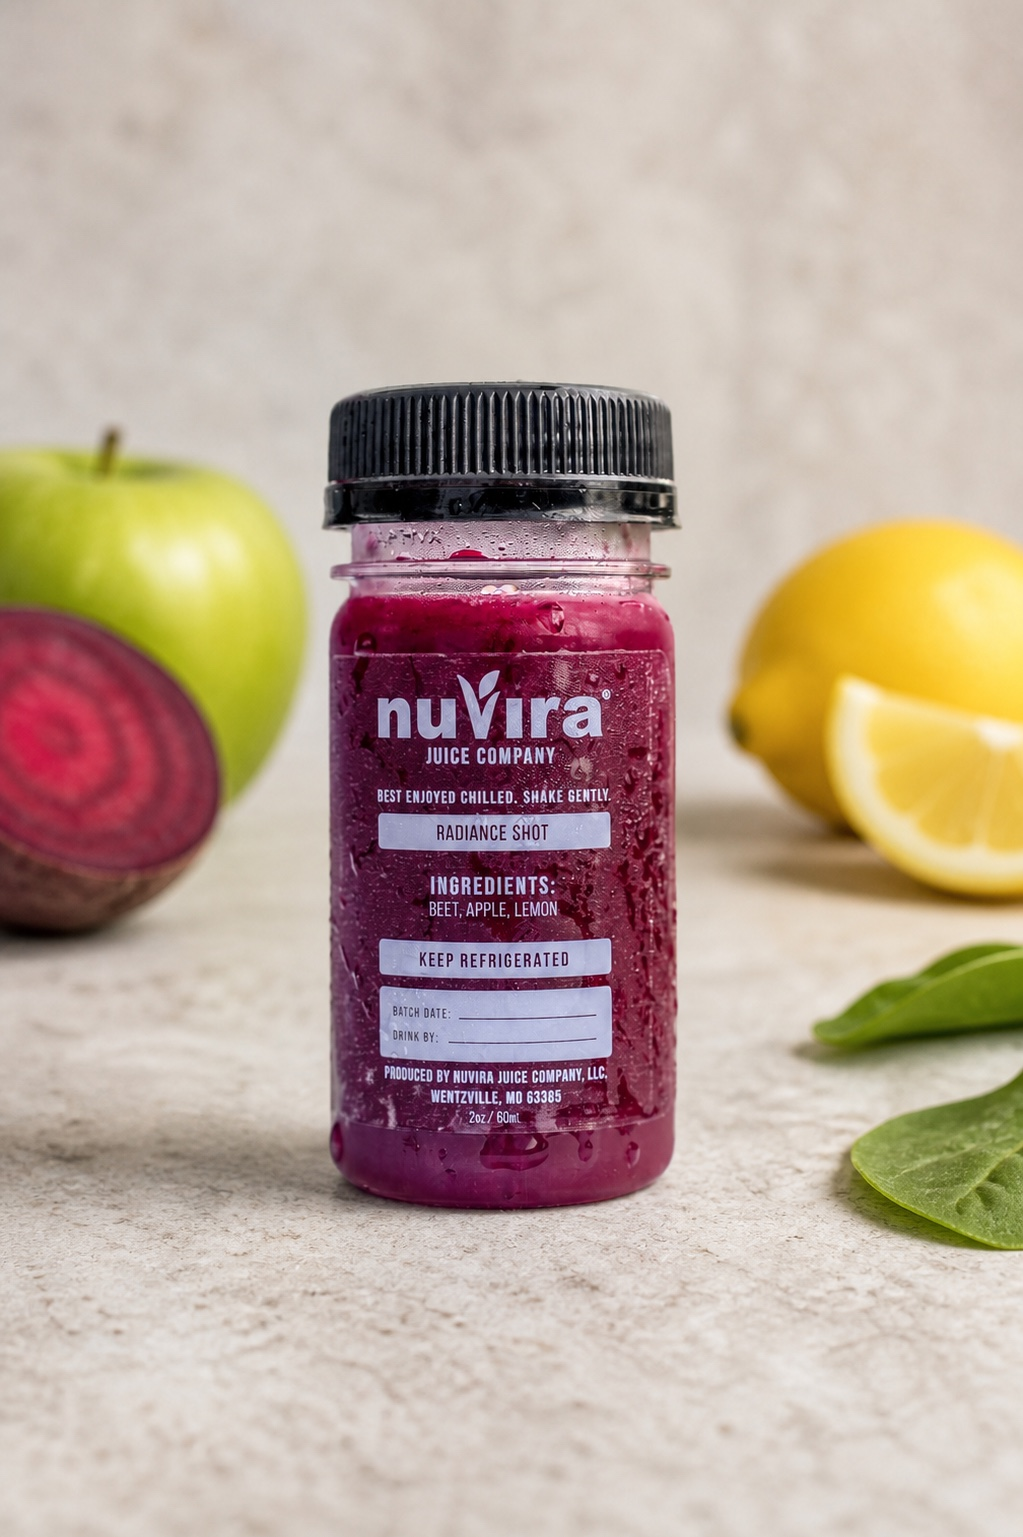
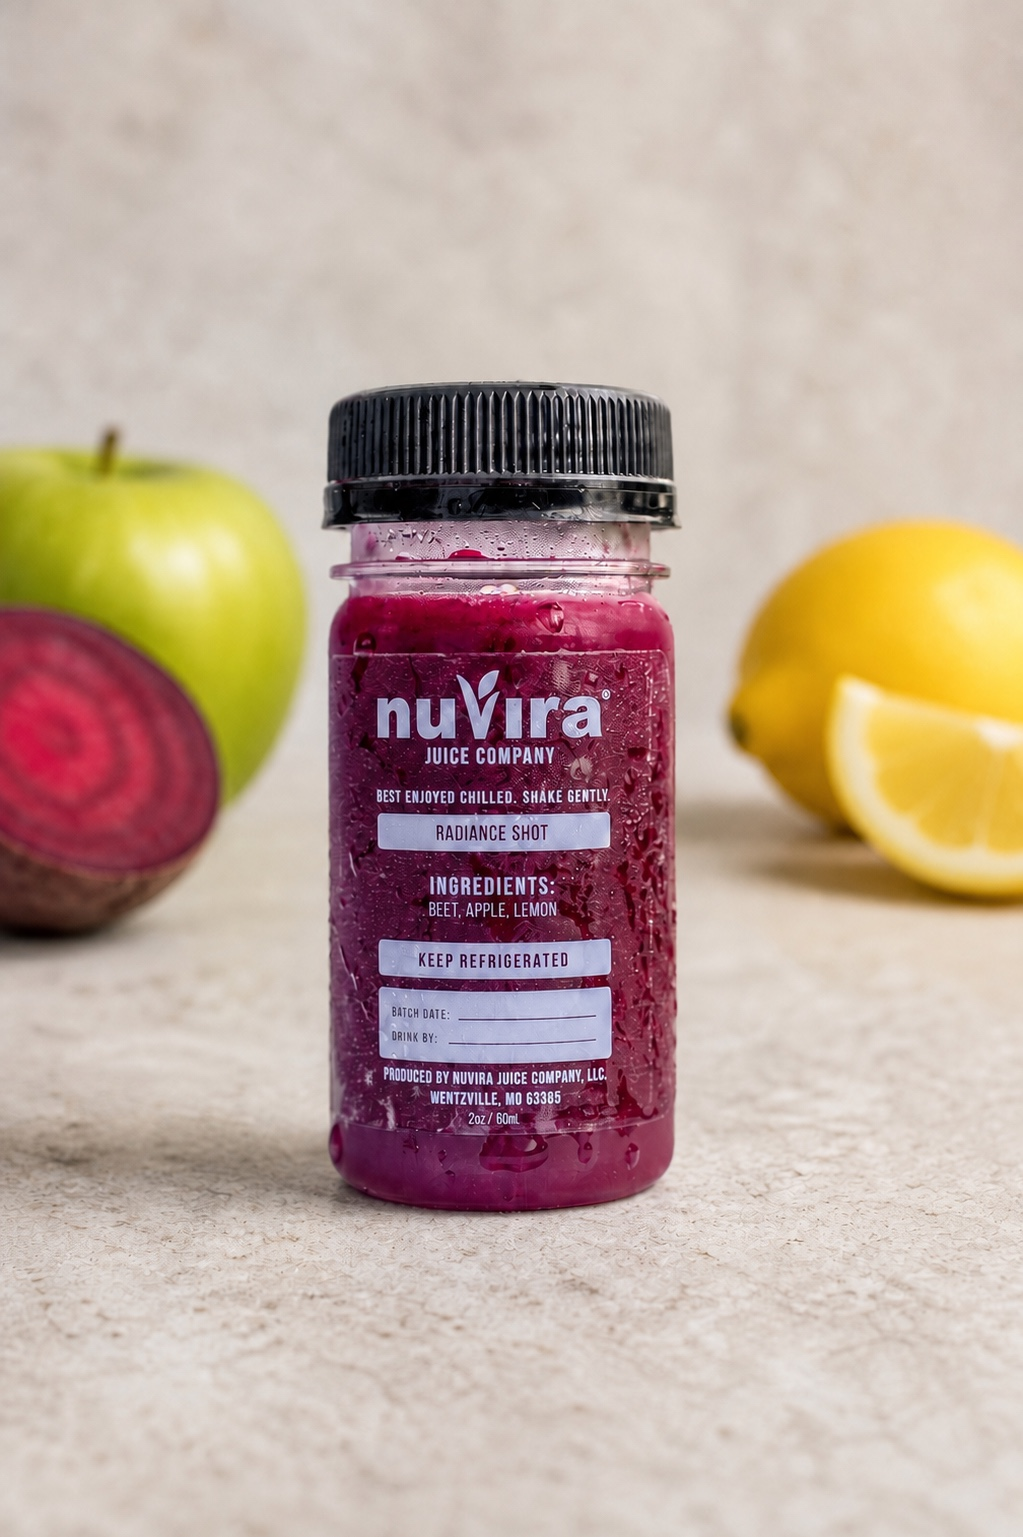
Add verified product image galleries

diff --git a/src/pages/ProductDetail.jsx b/src/pages/ProductDetail.jsx
@@ -26,6 +26,7 @@ import { useCart } from '@/lib/cartContext';
 import { normalizeProductIdentifier, productLookupKeys, productPath } from '@/lib/seo-slugs';
 import { findPublicProductFallback } from '@/lib/public-products';
 import { buildProductSeoMetadata, buildProductStructuredData } from '@/lib/product-seo';
+import { buildProductGallery } from '@/lib/product-gallery-images';
 import { motion } from 'framer-motion';
 import { toast } from 'sonner';
 import ProductCard from '@/components/shop/ProductCard';
@@ -145,6 +146,7 @@ export default function ProductDetail() {
   const navigate = useNavigate();
   const { addItem } = useCart();
   const [quantity, setQuantity] = useState(1);
+  const [selectedImageIndex, setSelectedImageIndex] = useState(0);
   const trackedProductIdRef = useRef('');
   const trackedMetaProductIdRef = useRef('');
   const trackedSnapProductIdRef = useRef('');
@@ -224,6 +226,10 @@ export default function ProductDetail() {
     }
   }, [handle, id, product, navigate]);
 
+  useEffect(() => {
+    setSelectedImageIndex(0);
+  }, [product?.id]);
+
   const handleAddToCart = () => {
     if (!product) return;
     const extra = {};
@@ -270,6 +276,8 @@ export default function ProductDetail() {
   const blendDetail = inferBlendDetail(product, isMerchProduct);
   const productSeo = buildProductSeoMetadata(product);
   const productStructuredData = buildProductStructuredData(product);
+  const productGallery = buildProductGallery(product);
+  const selectedProductImage = productGallery[selectedImageIndex] || productGallery[0] || null;
 
   const purchaseBar = (
     <div
@@ -336,19 +344,19 @@ export default function ProductDetail() {
                 : 'h-[52vh] min-h-[330px] max-h-[470px] sm:h-[50vh] sm:max-h-[520px]'
             }`}
           >
-            {product.image_url ? (
+            {selectedProductImage?.src ? (
               <>
                 {isMerchProduct && (
                   <img
-                    src={product.image_url}
+                    src={selectedProductImage.src}
                     alt=""
                     aria-hidden="true"
                     className="absolute inset-0 h-full w-full scale-110 object-cover opacity-30 blur-2xl"
                   />
                 )}
                 <img
-                  src={product.image_url}
-                  alt={product.title}
+                  src={selectedProductImage.src}
+                  alt={selectedProductImage.alt}
                   className={`relative h-full w-full ${isMerchProduct ? 'object-contain p-3 md:p-8' : 'object-cover'}`}
                 />
               </>
@@ -365,6 +373,11 @@ export default function ProductDetail() {
               <ArrowLeft className="w-4 h-4" />
             </button>
             <div className="absolute left-4 right-4 bottom-4 flex items-center justify-end gap-3">
+              {productGallery.length > 1 && (
+                <span className="rounded-full bg-black/55 px-3 py-1.5 text-[11px] font-bold text-white backdrop-blur">
+                  {selectedImageIndex + 1} / {productGallery.length}
+                </span>
+              )}
               {product.size && (
                 <span className="shrink-0 rounded-full bg-black/55 px-3 py-1.5 text-[11px] font-bold text-white backdrop-blur">
                   {product.size}
@@ -372,6 +385,38 @@ export default function ProductDetail() {
               )}
             </div>
           </div>
+
+          {productGallery.length > 1 && (
+            <div
+              role="group"
+              aria-label={`${product.title} product gallery`}
+              className="grid grid-cols-4 gap-2 px-4 pt-3 md:px-0"
+            >
+              {productGallery.map((image, index) => (
+                <button
+                  key={image.src}
+                  type="button"
+                  aria-label={`View image ${index + 1} of ${productGallery.length}: ${image.alt}`}
+                  aria-pressed={selectedImageIndex === index}
+                  onClick={() => setSelectedImageIndex(index)}
+                  className={`group relative aspect-[4/3] min-h-14 overflow-hidden rounded-xl border bg-secondary/50 shadow-sm transition-all focus-visible:outline-none focus-visible:ring-2 focus-visible:ring-primary focus-visible:ring-offset-2 ${
+                    selectedImageIndex === index
+                      ? 'border-primary ring-2 ring-primary/25'
+                      : 'border-border/60 hover:border-primary/50'
+                  }`}
+                >
+                  <img
+                    src={image.src}
+                    alt=""
+                    aria-hidden="true"
+                    loading={index === 0 ? 'eager' : 'lazy'}
+                    className="h-full w-full object-cover transition-transform duration-300 group-hover:scale-[1.03]"
+                  />
+                  <span className="sr-only">{image.alt}</span>
+                </button>
+              ))}
+            </div>
+          )}
         </div>
 
         <div>

diff --git a/src/lib/product-gallery-images.js b/src/lib/product-gallery-images.js
@@ -1,0 +1,99 @@
+import { SITE_URL, slugifyProductTitle } from './seo-slugs.js';
+
+const PRODUCT_GALLERY_IMAGES = Object.freeze({
+  aura: ['kitchen', 'ingredients', 'outdoor'],
+  oasis: ['kitchen', 'ingredients', 'wellness'],
+  're-nu': ['kitchen', 'ingredients', 'outdoor'],
+  'the-nuvira-trio': ['kitchen', 'ingredients', 'lifestyle'],
+  'nuvira-trio': ['kitchen', 'ingredients', 'lifestyle'],
+  'orange-juice': ['kitchen', 'ingredients', 'lifestyle'],
+  'pineapple-juice': ['kitchen', 'ingredients', 'lifestyle'],
+  'watermelon-juice': ['kitchen', 'ingredients', 'lifestyle'],
+  'radiance-shot': ['kitchen', 'ingredients', 'lifestyle'],
+  'hydration-shot': ['kitchen', 'ingredients', 'lifestyle'],
+  'reset-shot': ['kitchen', 'ingredients', 'lifestyle'],
+});
+
+const GALLERY_DIRECTORY = Object.freeze({
+  aura: 'aura',
+  oasis: 'oasis',
+  're-nu': 're-nu',
+  'the-nuvira-trio': 'nuvira-trio',
+  'nuvira-trio': 'nuvira-trio',
+  'orange-juice': 'orange-juice',
+  'pineapple-juice': 'pineapple-juice',
+  'watermelon-juice': 'watermelon-juice',
+  'radiance-shot': 'radiance-shot',
+  'hydration-shot': 'hydration-shot',
+  'reset-shot': 'reset-shot',
+});
+
+const SCENE_LABELS = Object.freeze({
+  kitchen: 'in a bright kitchen setting',
+  ingredients: 'with its featured ingredients',
+  outdoor: 'in a fresh outdoor setting',
+  wellness: 'in a calm wellness setting',
+  lifestyle: 'in a premium lifestyle setting',
+});
+
+function productGalleryKey(product = {}) {
+  const candidates = [product.slug, product.handle, product.title, product.name]
+    .map(value => slugifyProductTitle(value || ''))
+    .filter(Boolean);
+
+  return candidates.find(candidate => PRODUCT_GALLERY_IMAGES[candidate]) || '';
+}
+
+function absoluteImageUrl(imageUrl = '') {
+  const value = String(imageUrl || '').trim();
+  if (!value) return '';
+  return value.startsWith('http://') || value.startsWith('https://')
+    ? value
+    : `${SITE_URL}${value.startsWith('/') ? value : `/${value}`}`;
+}
+
+export function productAdditionalImageUrls(product = {}, { absolute = false } = {}) {
+  const key = productGalleryKey(product);
+  if (!key) return [];
+
+  const directory = GALLERY_DIRECTORY[key];
+  return PRODUCT_GALLERY_IMAGES[key].map(scene => {
+    const imagePath = `/images/google-merchant/${directory}/${directory}-${scene}.jpg`;
+    return absolute ? absoluteImageUrl(imagePath) : imagePath;
+  });
+}
+
+export function buildProductGallery(product = {}, { absolute = false } = {}) {
+  const title = String(product.title || product.name || 'NuVira product').trim();
+  const key = productGalleryKey(product);
+  const primary = String(product.image_url || '').trim();
+  const existingSecondaryImages = Array.isArray(product.secondary_images)
+    ? product.secondary_images.map(image => String(image || '').trim()).filter(Boolean)
+    : [];
+  const items = primary ? [{ src: absolute ? absoluteImageUrl(primary) : primary, alt: title, scene: 'primary' }] : [];
+
+  existingSecondaryImages.forEach((src, index) => {
+    items.push({
+      src: absolute ? absoluteImageUrl(src) : src,
+      alt: `${title} product photo ${index + 2}`,
+      scene: 'catalog-secondary',
+    });
+  });
+
+  if (!key) return items;
+
+  const directory = GALLERY_DIRECTORY[key];
+  for (const scene of PRODUCT_GALLERY_IMAGES[key]) {
+    items.push({
+      src: absolute
+        ? absoluteImageUrl(`/images/google-merchant/${directory}/${directory}-${scene}.jpg`)
+        : `/images/google-merchant/${directory}/${directory}-${scene}.jpg`,
+      alt: `${title} ${SCENE_LABELS[scene]}`,
+      scene,
+    });
+  }
+
+  return items.filter((item, index, collection) => (
+    collection.findIndex(candidate => candidate.src === item.src) === index
+  ));
+}

diff --git a/src/lib/product-seo.js b/src/lib/product-seo.js
@@ -1,5 +1,6 @@
 import { PUBLIC_PRODUCT_FALLBACKS } from './public-product-catalog.js';
 import { MERCHANT_RETURN_POLICY_ID } from './merchant-policy.js';
+import { buildProductGallery } from './product-gallery-images.js';
 import { SITE_URL, productLookupKeys, productPath, slugifyProductTitle } from './seo-slugs.js';
 
 const SITE_NAME = 'NuVira Juice Co.';
@@ -76,6 +77,8 @@ export function buildProductSeoMetadata(product = {}) {
 export function buildProductStructuredData(product = {}) {
   const resolvedProduct = resolveProductSeoRecord(product);
   const metadata = buildProductSeoMetadata(resolvedProduct);
+  const productImages = buildProductGallery(resolvedProduct, { absolute: true })
+    .map(item => item.src);
   const additionalProperty = [
     resolvedProduct.size ? {
       '@type': 'PropertyValue',
@@ -95,7 +98,7 @@ export function buildProductStructuredData(product = {}) {
     '@id': `${metadata.canonicalUrl}#product`,
     name: resolvedProduct.title,
     description: metadata.description,
-    image: [metadata.image],
+    image: productImages,
     sku: String(resolvedProduct.catalog_id || resolvedProduct.shopify_variant_id || resolvedProduct.id || ''),
     productID: String(resolvedProduct.id || resolvedProduct.catalog_id || ''),
     category: metadata.category,
